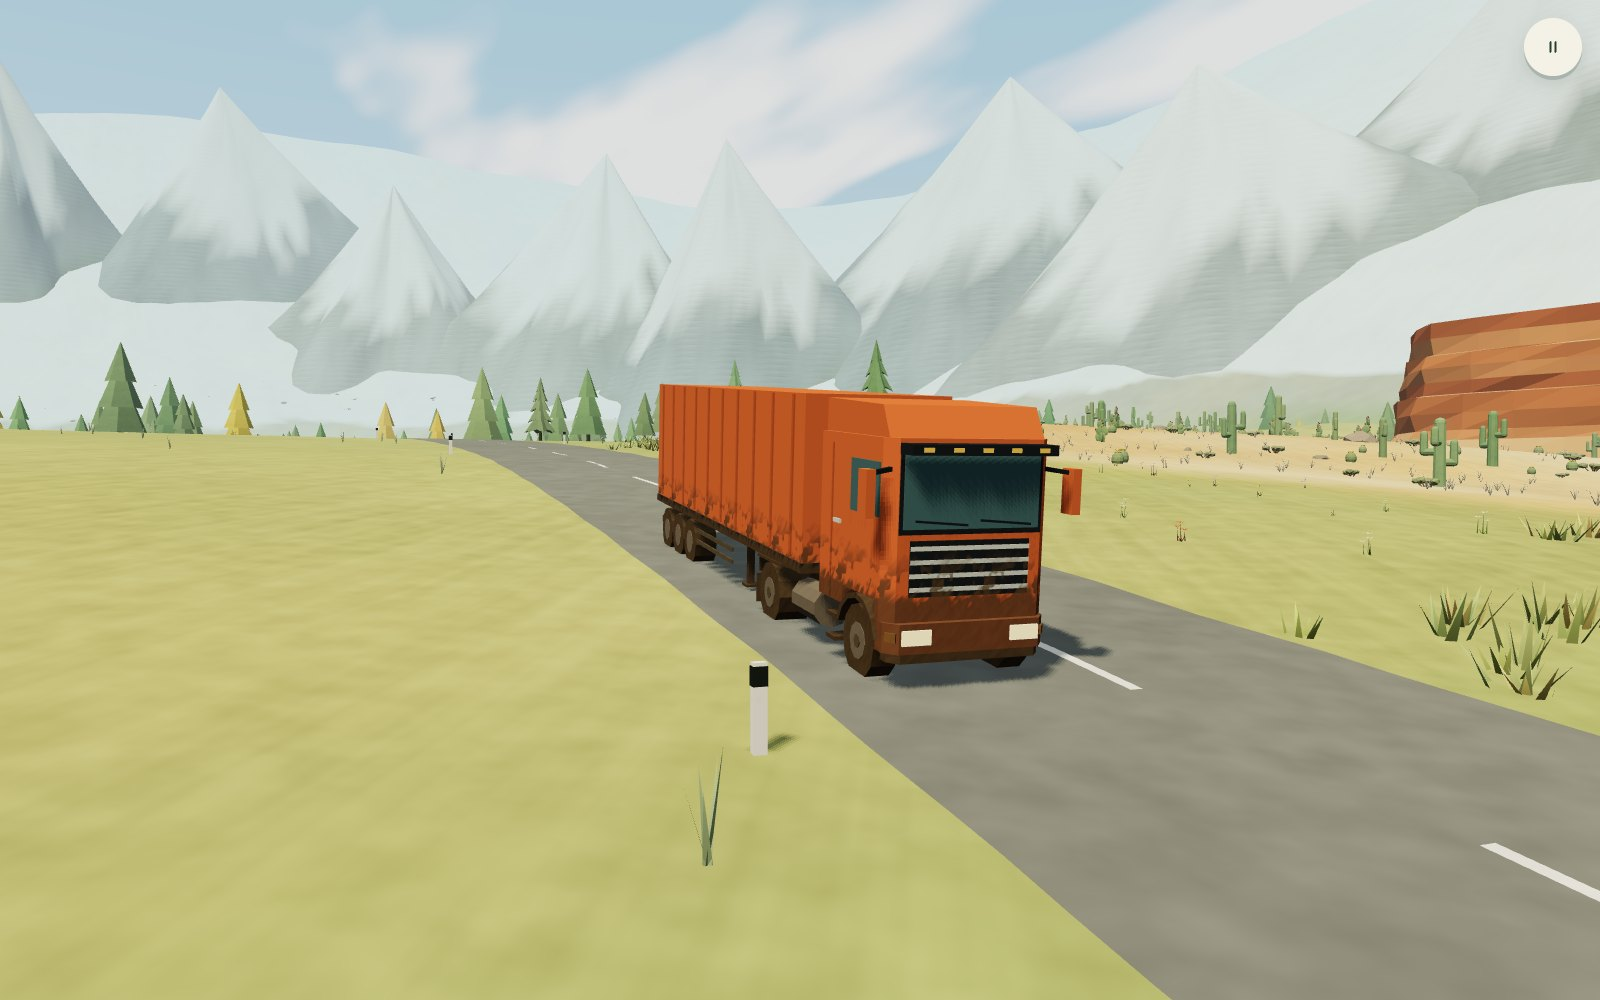
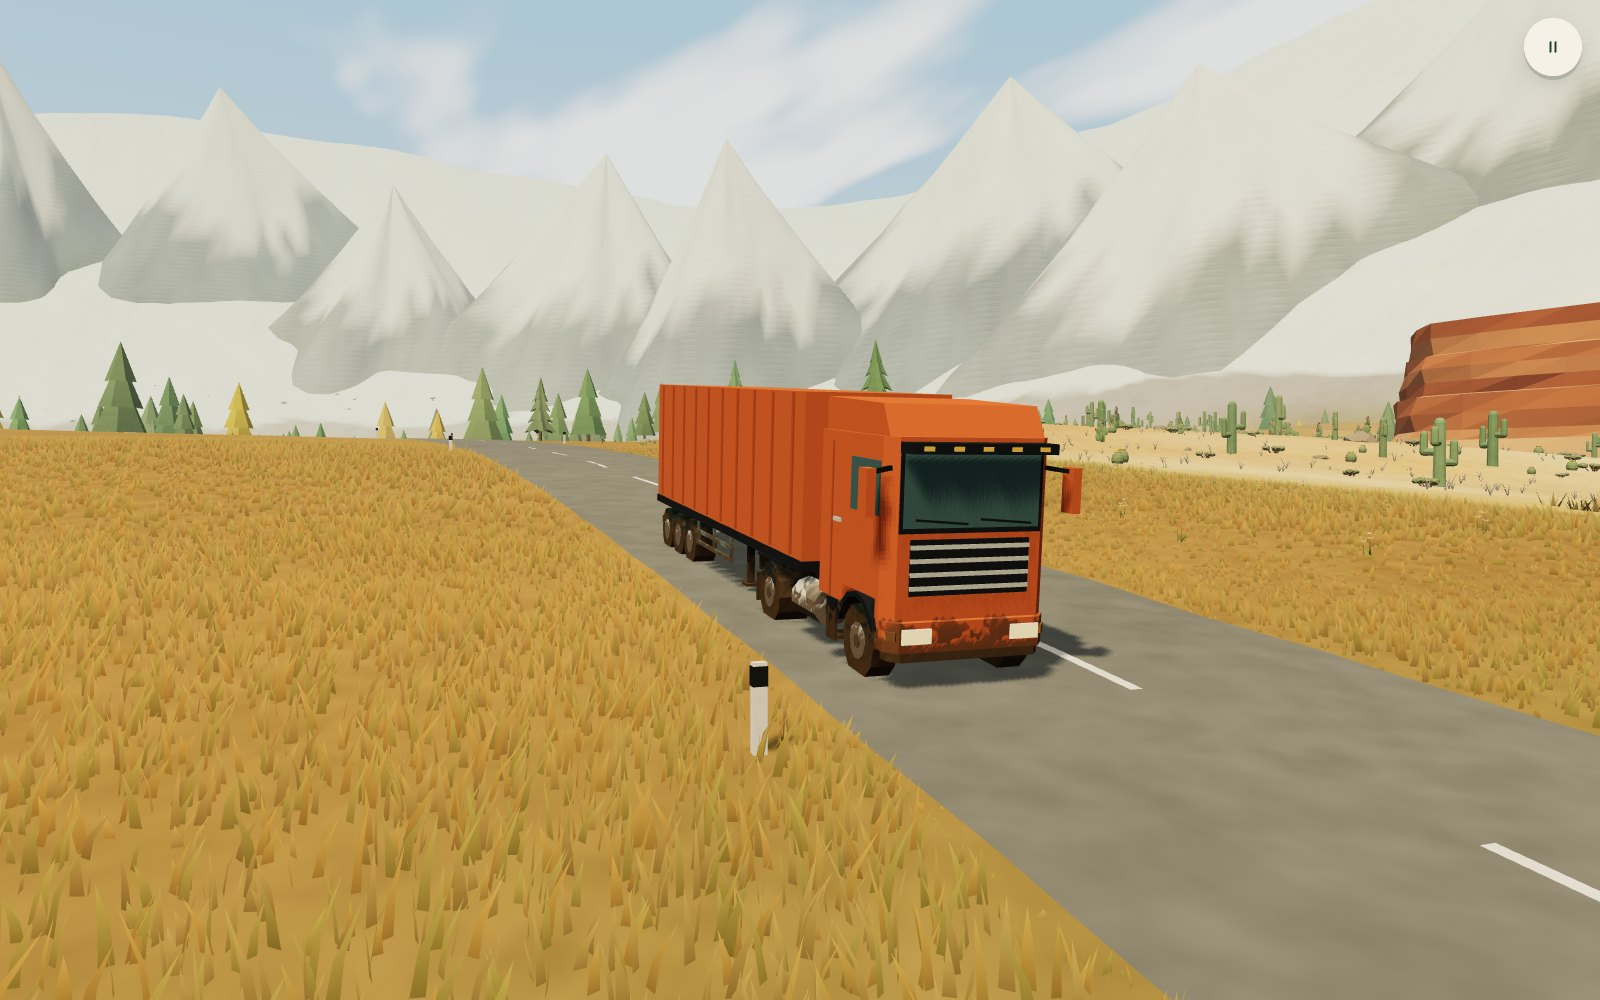
Say in the README that the valley is in autumn and how the grass is drawn, and retake the screenshots

diff --git a/README.md b/README.md
@@ -1,6 +1,6 @@
 # Nowhere to Be
 
-A relaxed low-poly driving game that runs in the browser. Take a little off-roader around a mountain valley and up into the hills around it at your own pace. There are no timers, no score and nothing to win. I made it for my son and me to explore together, so the menus are pictures rather than words.
+A relaxed low-poly driving game that runs in the browser. Take a little off-roader around a mountain valley in autumn and up into the hills around it at your own pace. There are no timers, no score and nothing to win. I made it for my son and me to explore together, so the menus are pictures rather than words.
 
 Play it at [nowhere-to-be.jarkovsky.com](https://nowhere-to-be.jarkovsky.com).
 
@@ -116,7 +116,7 @@ To play on your phone from your own computer, run `npm run dev` and open the **N
 - **Things on the move.** A railbus runs between the halt and a tunnel in the hills, and the level crossing closes while it passes. At the roadworks an excavator loads a dump truck while a roller, a grader and a skid steer loader work on the new road. Two tractors plough and mow the upland fields and a combine harvester cuts the wheat, taking turns where their fields meet, with the furrows, the short grass and the stubble spreading out right behind them. A camper van, a pickup, a saloon and a bus drive the trail, and a fuel tanker and a delivery van drive the upland road. Now and then an ambulance, a fire engine or a police car comes by with its blue lights on while the others pull over, and sometimes an army off-roader drives through. A convoy of three off-roaders with kayaks and jerrycans on their roofs drives the outer road, and another comes the other way. Kryštof, a yellow air ambulance, is based at the airfield: every few minutes it flies low along the outer road and under the rock arch, round the north and in along the fjord.
 - **Side tracks.** Narrow dirt tracks lead off the main trail to the farm, the tower, the windmill, the summit, the upland farm and up a hairpin to the hut, and a path follows the lake shore.
 - **Roadworks.** A new road is being built off the upland road, a little south of where the west road comes up: fresh asphalt from the junction, then gravel, then bare earth where the machines are working.
-- **Mud and water.** The car gets dusty off the trail, dustier in the desert's sand, and caked in mud in the puddles and the muddy stretches of the side tracks, and water and rain wash it clean. Wheat and long grass lie down in its tracks and stand up again over a couple of minutes. A brook runs from a spring at the foot of the northern hills, across the trail at a shallow ford and into the lake, and a track up its bank climbs over rocks that rock the car from side to side. In a hollow south of the trail, just past the start, a track goes through a deep ford where the water comes up to the doors: the car slows to a crawl, pushes a bow wave ahead of it, leaves a wake and comes out dripping.
+- **Mud and water.** The car gets dusty off the trail, dustier in the desert's sand, and caked in mud in the puddles and the muddy stretches of the side tracks, and water and rain wash it clean. Wheat and grass lie down in its tracks and stand up again over a couple of minutes. A brook runs from a spring at the foot of the northern hills, across the trail at a shallow ford and into the lake, and a track up its bank climbs over rocks that rock the car from side to side. In a hollow south of the trail, just past the start, a track goes through a deep ford where the water comes up to the doors: the car slows to a crawl, pushes a bow wave ahead of it, leaves a wake and comes out dripping.
 - **The mud hole.** Below the farm, where the lane between the paddock and the wheat field runs out into the meadow, there is a deep mud hole. Drive into it and the car sinks in and gets stuck, its wheels spinning and throwing up mud. After a few seconds the farm's red tractor comes over, stops in front of the car, and pulls it out on a rope onto firm ground, then toots and drives home. The car can also creep back out in reverse before the tractor gets there.
 - **The garage.** Pick an off-roader, a pickup, a camper van, a saloon, a tractor, a lorry that pulls a trailer, a rally car, a racing car or a little roadster by its picture, then a colour and roof items. Every one comes in the same colours. The lorry has a deep air horn. The roadster's lamps pop up out of the bonnet after dark and flip up and back down when it honks, and it winks once it has been parked for a moment. The roof tent opens when the car has been parked for a moment: the lid folds out as an awning on two poles and a ladder comes down beside the car. The roadster has no roof, so it carries the tent rolled up on a rack on its boot.
 - **The depot.** A little way along the trail from the start, some of the vehicles you aren't driving wait at a depot, each in a colour of its own. Drive up and an arrow bobs over each one. Tap one (or press `F`) and it honks, flashes its lamps, pulls out and follows you a little way behind, stopping when you stop and honking back when you honk. All four can come along at once, one behind the other. Tap one while you are stopped, or park at the depot with them, and they stay and go back to their bays.
@@ -131,11 +131,12 @@ Progress is saved in your browser.
 Everything you see is generated in code with [Three.js](https://threejs.org), and every sound apart from the music is made with Web Audio. There are no model or texture files.
 
 - **Terrain:** a height field built from layered noise and a few hand-placed landforms: knolls, a flat-topped hill, rocky ridges, a summit, flattened farmland and a ledge for the waterfall. Grass gives way to stony ground and then snow with height. It is fine everywhere you can drive and coarse under the distant peaks. The trails are levelled across their width, the paved and gravel roads climb no steeper than a set grade through cuttings and on banks, the railway climbs at an even grade on embankments and through a cutting, the creek, the river and the fjord are carved into the ground, and buildings sit on flattened pads, so nothing floats or sinks. Wherever a road crosses a river, it dips into the water at a ford on its own grade. Rivers, rocky ground, farms, herds and ponds are each kept in a list, so adding another is a matter of adding an entry. A test checks there are no cliffs on the valley floor.
+- **Grass:** the meadows near the camera are covered in blades of grass, drawn by the graphics card from one tile of blades repeated round the camera. Each blade looks up the height of the ground under it, the ground's colour and how grassy the ground is from textures made when the game loads, and stays off the trails, roads, tracks, yards and crop fields by a mask of them at a metre to a texel, with short grass between the ruts of a track. Further off, the tiles have fewer, wider blades, and the extra blades shrink away before a tile changes over. The blades are solid triangles rather than pictures with see-through edges, which phones and tablets draw slowly. Where the car drives through, the grass lies over.
 - **Driving:** an arcade model with real velocity, tyre grip per surface, slowdown on hills and in deep water, and soft collisions. It runs in fixed steps of a sixtieth of a second, so the car drives the same at any frame rate, and is drawn between its last two steps. Each vehicle bumps into things with a row of circles from its nose to its tail, as wide as it is. Obstacles are circles, capsules and turned boxes, the boxes for buildings, so a wall stops the car where the wall is. The ferry's deck is a surface that moves: the car drives onto it like any other, and while it is parked aboard on a trip, it is carried along with the deck instead of being driven. Each tyre is settled onto the terrain triangle beneath it, within the travel its suspension allows. Tests drive the car at random among obstacles and check it never ends a step inside one, never speeds up past its top speed and never passes through a thin fence.
 - **Camera:** a spring arm that pulls in when rock comes between it and the car, so the tunnel and cliffs never swallow the view, and tips with the slope ahead so it looks up a hill rather than into it. Drag to swing it round; it drifts back behind the car when you let go.
 - **Buildings:** gabled houses are built from one kit (`src/world/landmarks/house.js`): walls up to where the roof meets them, a closed attic under the roof, and a box obstacle round the walls.
 - **Checking the models:** `viewer.html` (open `/viewer.html` with `npm run dev`) shows every vehicle, machine, animal, plant and place on its own, with checks that point out parts left floating, gaps under buildings on slopes, gaps between a wall and the roof over it, walls the car can drive into before anything stops it, surfaces that can be seen through from behind, faces that flicker against each other and floors the car would sink into. A part only counts as held up where its surface comes within ten centimetres of another, a gap under a corner only where nothing else (a footing, the ballast) holds that corner up, faces only flicker where they lie within 2 mm of each other, and two meshes that meet along their open edges count as one closed surface. The viewer's address follows the camera, so a link opens the same view, and the Note button saves a note about what is in view to `artifacts/viewer-notes.md`. `npm run check -- hut lorry` runs the checks on whatever matches the words and says which faults are new. A test holds every model and landmark to the faults listed in `tests/geometry-baseline.json`, each by its kind and place with the reason it is allowed, so a new one can't creep in, and another checks that every parked vehicle (the friends at the depot, the fire engine, the planes) can drive out to the roads over paved ground (`src/world/access.js`).
-- **Performance:** cheap Lambert materials, merged and instanced meshes, one shadow-casting light, a 60 fps cap, no rendering while paused, and a resolution that adapts to the device. The ground is split into tiles, and tiles far from the camera are drawn with fewer, larger triangles. Trees and rocks are grouped by area so whatever is out of view is skipped, distant rocks take a simpler shape, flowers, grass and bushes are only drawn near the camera, and only what stands near the car casts shadows. The tracks through the wheat and the long grass are kept in one small texture that moves along with the car. So the cost of a frame depends on what is around the camera rather than on the size of the map.
+- **Performance:** cheap Lambert materials, merged and instanced meshes, one shadow-casting light, a 60 fps cap, no rendering while paused, and a resolution that adapts to the device. The ground is split into tiles, and tiles far from the camera are drawn with fewer, larger triangles. Trees and rocks are grouped by area so whatever is out of view is skipped, distant rocks take a simpler shape, flowers, grass and bushes are only drawn near the camera, only the tiles of grass in view are drawn and nothing about them is worked out as the car moves except which tiles those are, and only what stands near the car casts shadows. The tracks through the wheat and the long grass are kept in one small texture that moves along with the car. So the cost of a frame depends on what is around the camera rather than on the size of the map.
 
 ```
 src/
